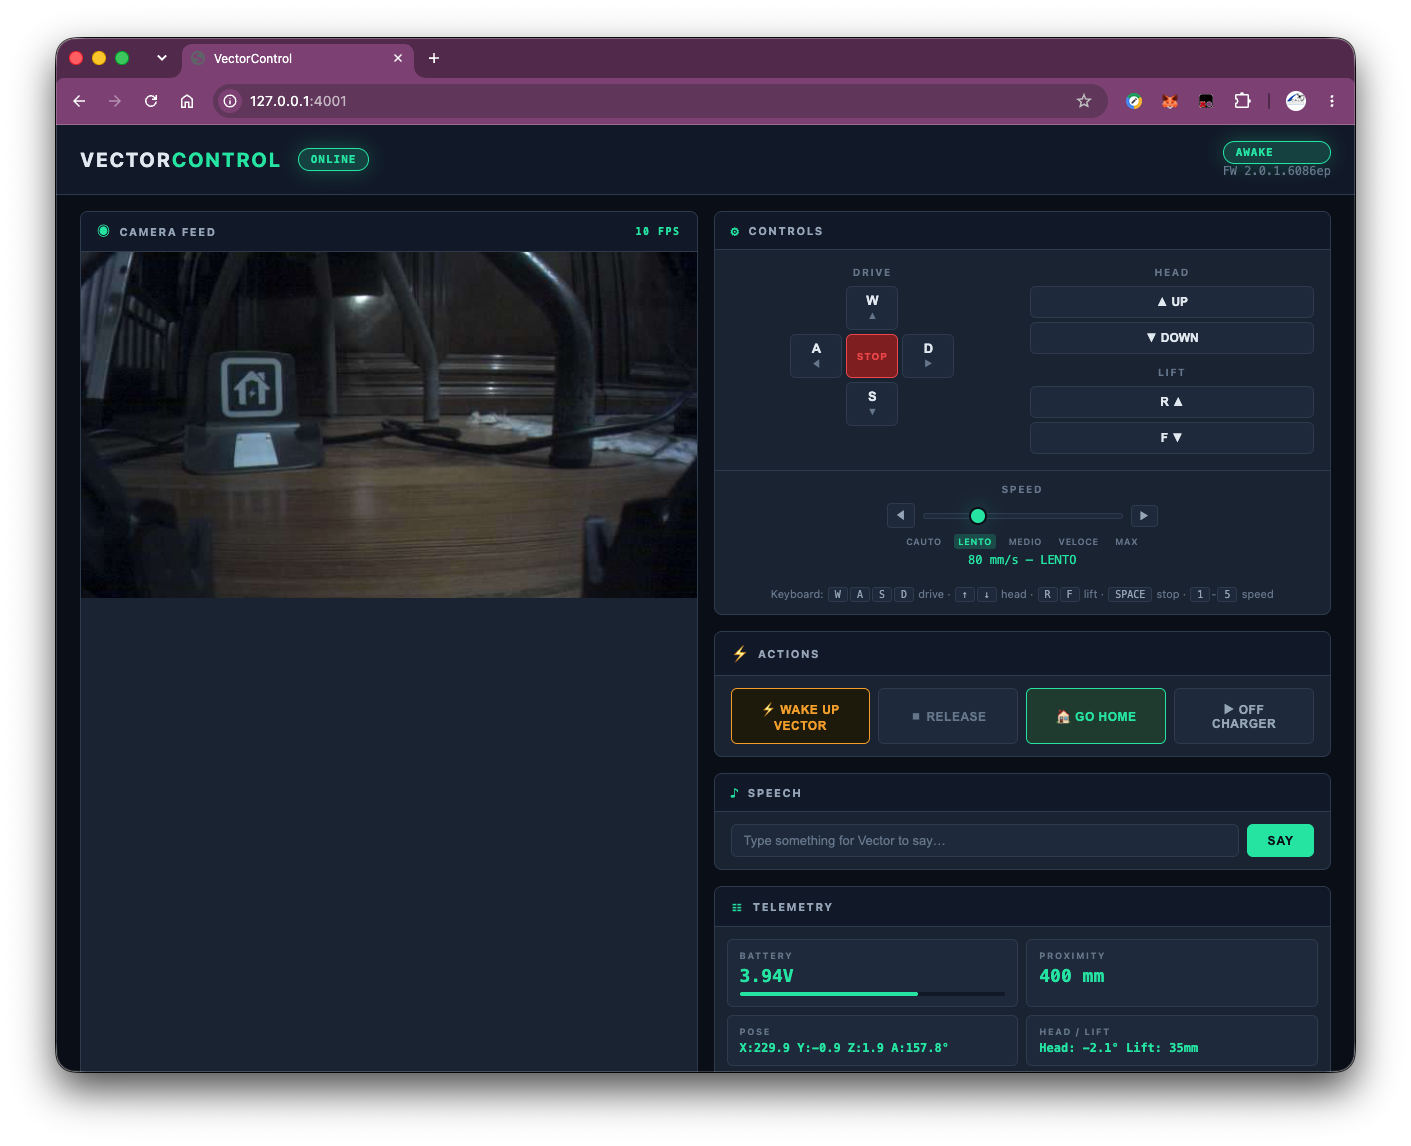
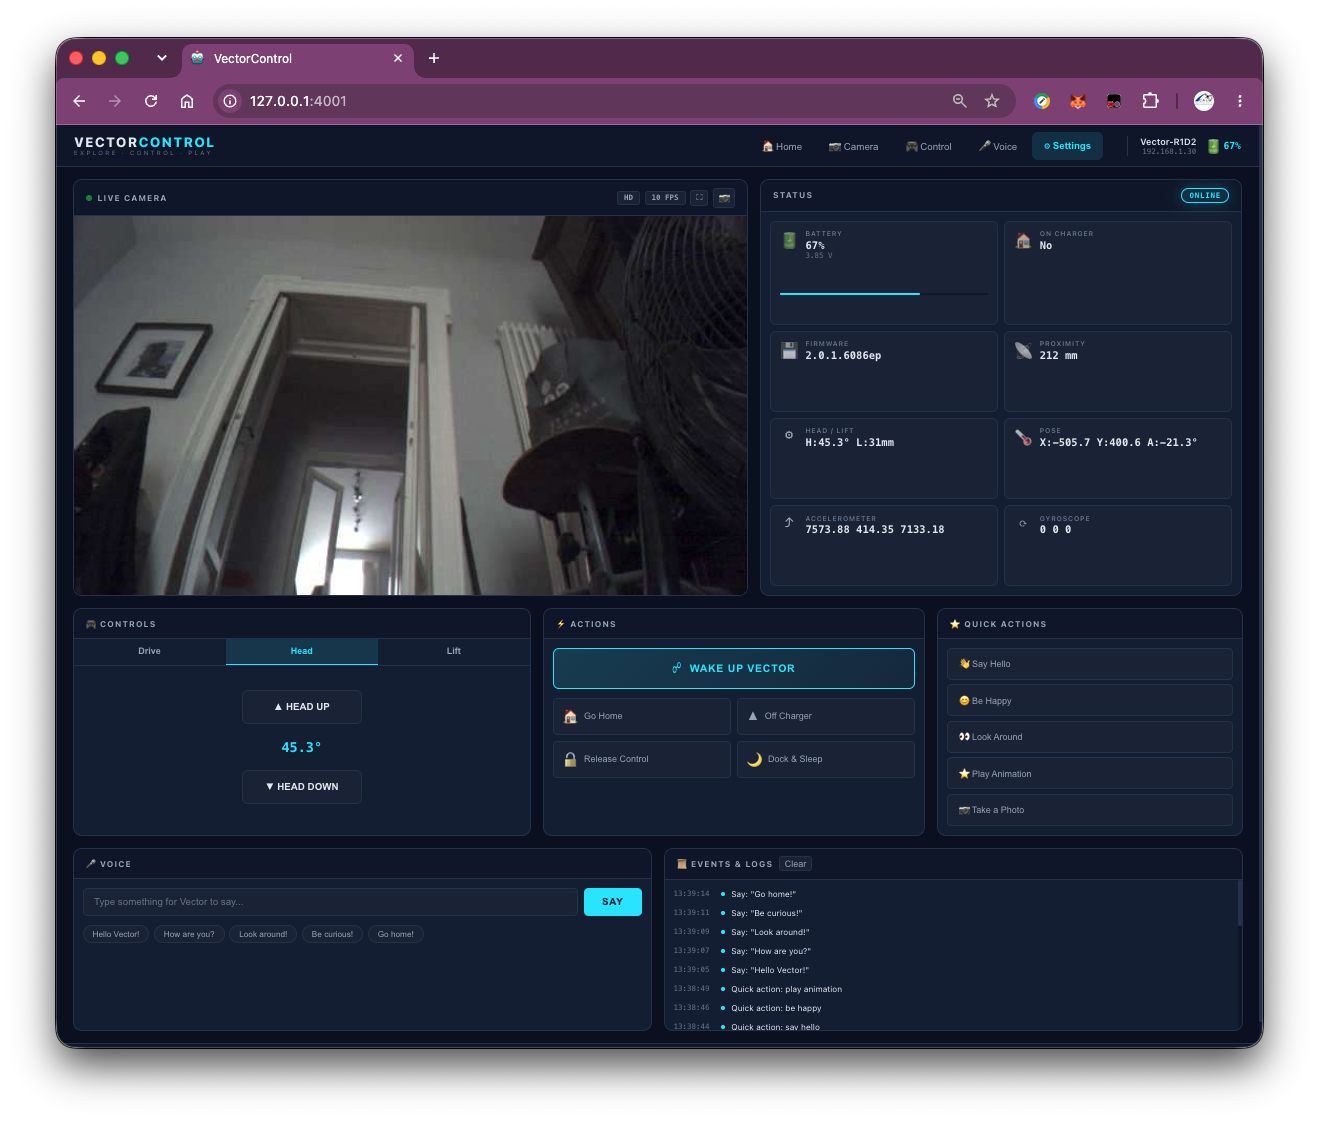
Document Problem 10 (anim crash) and update dashboard screenshot
- Problem 10: AnimationComponent crashes gRPC connection — never use
  robot.anim.play_animation(), use say_text + motors instead
- Updated dashboard screenshot with live camera + new UI design

diff --git a/README.md b/README.md
@@ -268,6 +268,14 @@ Vector goes into **deep sleep** when sitting on the charger for more than a few 
 
 **Workaround:** The wake sequence sends multiple `FakeButtonPress` bursts (3 rapid presses per attempt, up to 5 attempts). This works most of the time but can take 7-12 seconds from deep sleep. If wake fails, Vector needs a physical button press to restart.
 
+### Problem 10: AnimationComponent Crashes gRPC Connection
+
+Calling `robot.anim.play_animation()` from the SDK causes the entire gRPC connection to die. The `AnimationComponent` tries to lazy-load the animation list via a `ListAnimations` RPC that is unstable on firmware `2.0.1.6086ep` with Wire-Pod. When it fails, the gRPC channel closes — killing **all** communication (drive, camera, telemetry, everything). Vector then loses its server connection and shows error 800.
+
+**Root cause:** The `PlayAnimation` and `ListAnimations` RPCs use a different gRPC path than `DriveWheels`/`SayText`/`SetHeadMotor`. On this firmware + Wire-Pod combination, that path is unreliable and crashes the channel.
+
+**Solution:** Never use `robot.anim.play_animation()`. Use `robot.behavior.say_text()` and `robot.motors.*` instead — these are stable and never crash the connection. The server also now includes auto-reconnect logic: if the gRPC connection dies mid-session, it automatically attempts to reconnect.
+
 ### Final Working Configuration
 
 ```ini
